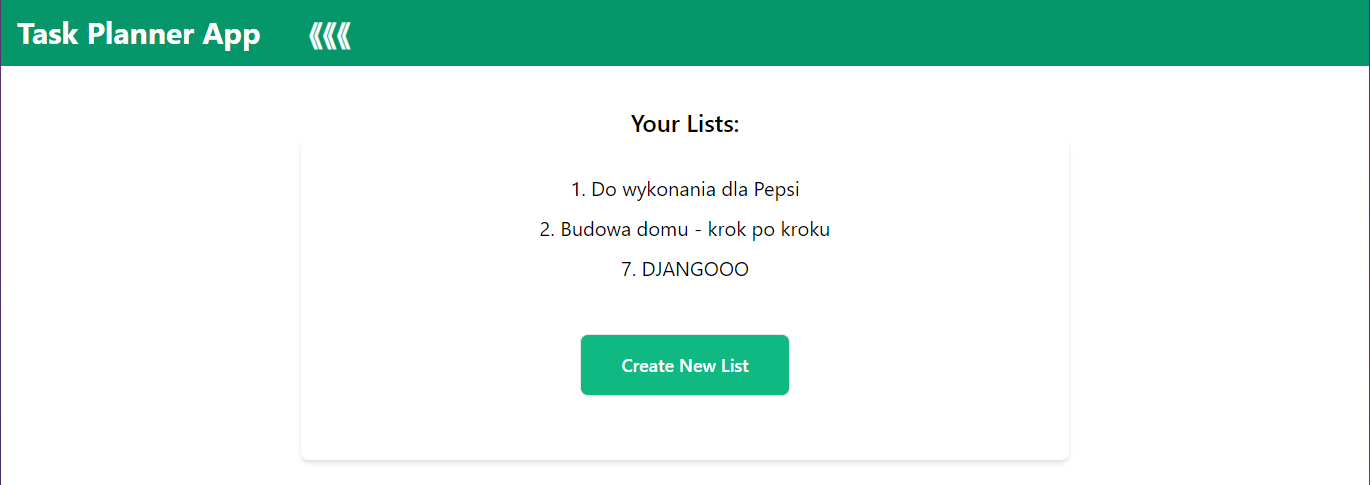
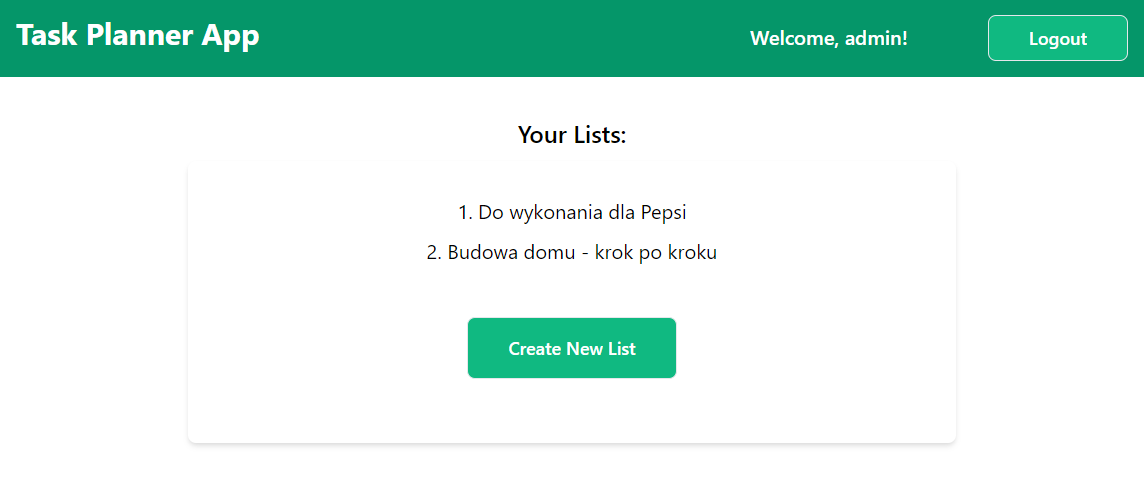
update task planner

diff --git a/index.html b/index.html
@@ -60,12 +60,14 @@
         <div class="row project">
             <div class="column">
                 <img class="app-preview zoomable-image" src="./static/Django_Task_app.png"/>
+                <img class="app-preview zoomable-image" src="./static/Django_Task_app_2.png"/>
             </div>
             <div class="column">
                 <h3>Task Planner App</h3>
-                <p>Django Web App to create your own lists, tasks associated with lists, update these tasks and delete. All CRUD operations. No user authentication (may appear later).</p>
+                <p>Django Web App to create your own lists, tasks associated with lists, update these tasks and delete. User Authentication. All CRUD operations.</p>
                 <p><i><b>Technologies Used: Django, Tailwind, Sqlite3</b></i></p>
                 <p>Github <a href="https://github.com/AlekUp24/Task_Planner_App">HERE</a></p>
+                <p><strong>Hoasted <a href="#">HERE</a></strong> (in progress)</p>
             </div>
         </div>
 
